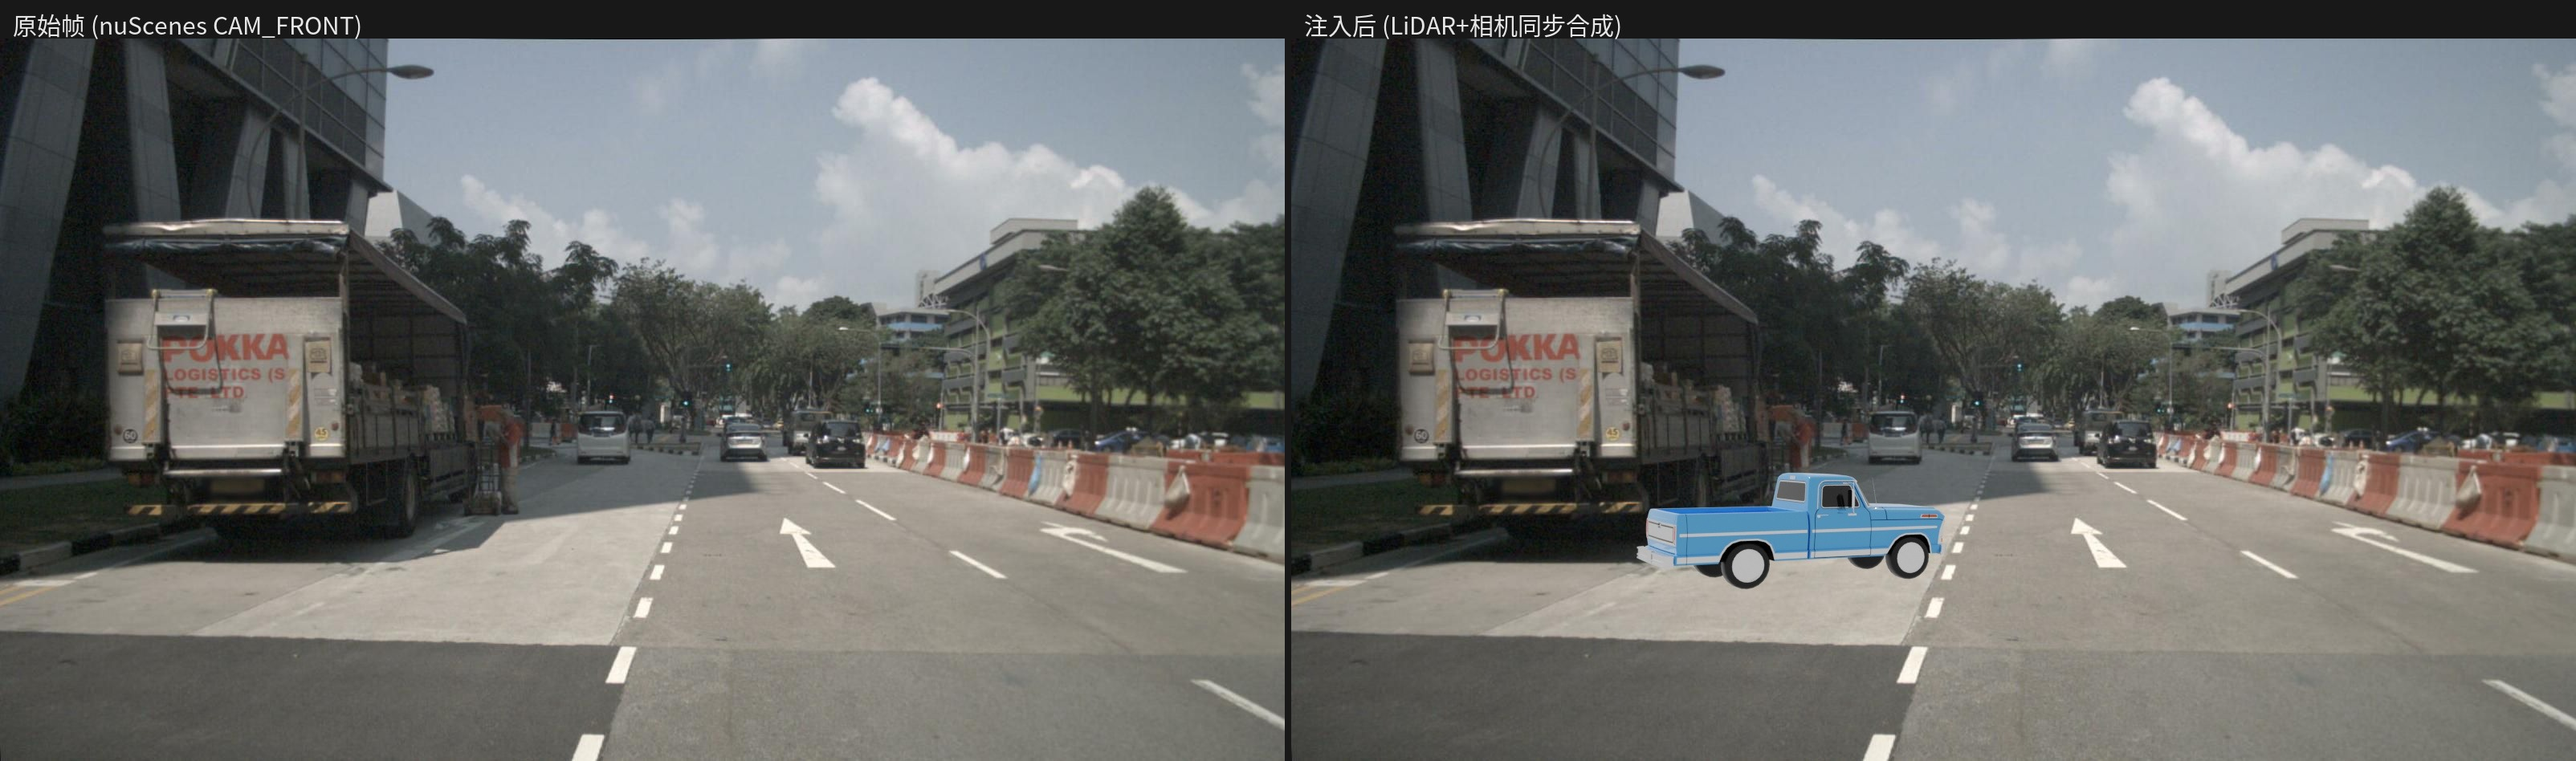
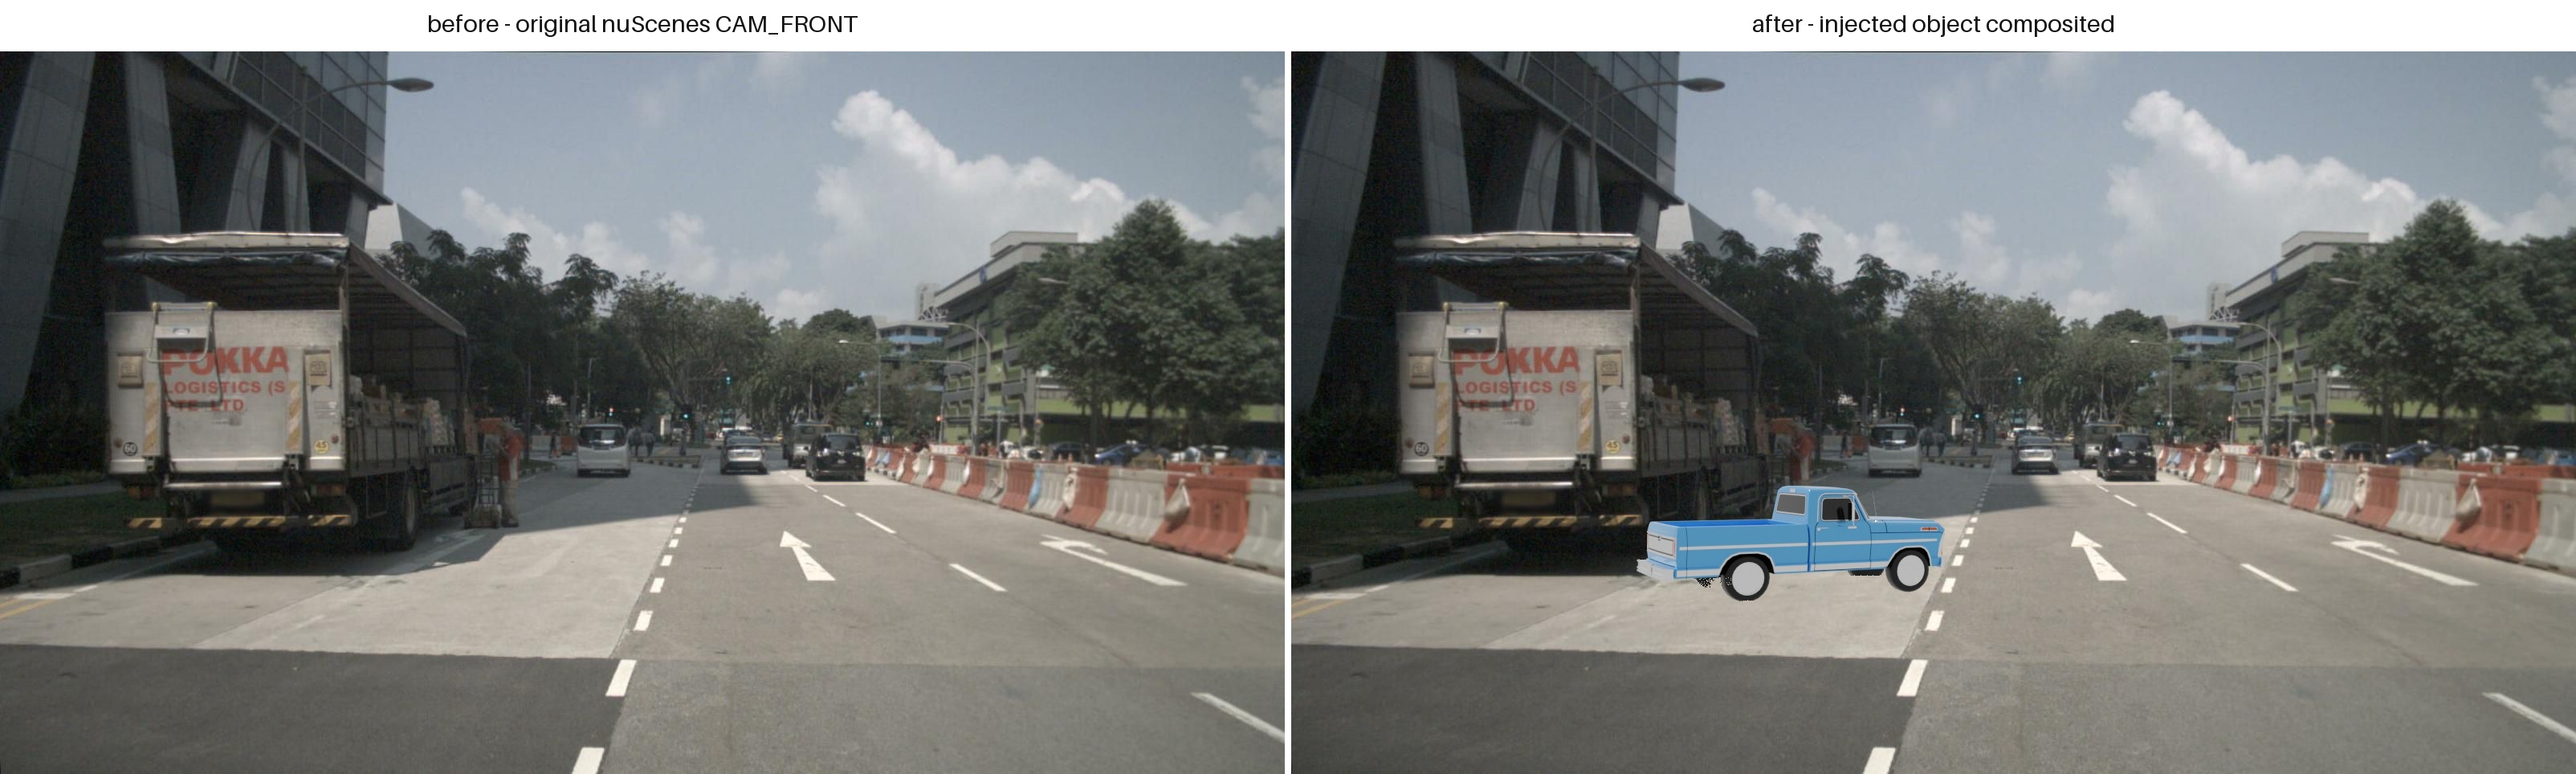
Docs: 用当前代码重出文档对比图
图 1-4 原本是 11 月 2 日的产物，早于 size 轴序、gap-fill、逐像素遮挡体深度等
修复——那一版遮挡实际失效（occluded 全为 0），图里的合成效果不代表当前行为。
此前只在正文加了「历史快照」警示，等于用说明遮掩问题。

改为脚本重出：新增 scripts/make_doc_figs.py，从真实运行目录生成 fig1-4（fig0 是
示意图不碰），兼容 P0 与 batch 两种产物布局。图 3 换成皮卡 + 护栏两个不同类目，
并用显式 ego 位姿替代随机放置，避免构图被真实车辆遮没或裁出画外。
文档同步换成实测数字并清掉全部 p0_final / p0_batch_v3 旧引用。

diff --git a/scripts/make_doc_figs.py b/scripts/make_doc_figs.py
@@ -1,0 +1,153 @@
+#!/usr/bin/env python
+"""Regenerate the documentation figures from real pipeline runs.
+
+The figures under ``docs/summary/figs`` are renders, not drawings, so they go
+stale whenever the compositing/occlusion code changes. This rebuilds them from
+two existing run directories instead of hand-editing images.
+
+    # a single-object run (any run dir works) and a two-object run
+    python scripts/make_doc_figs.py \
+        --single data/outputs/p0/cmpA_pedestrian_near \
+        --two    data/outputs/p0/fig_two
+
+fig0_pipeline.png is a diagram, not a render — it is left untouched.
+"""
+from __future__ import annotations
+
+import argparse
+import json
+from pathlib import Path
+
+import numpy as np
+from PIL import Image, ImageDraw, ImageFont
+
+ROOT = Path(__file__).resolve().parents[1]
+CONTENT_H = 900          # panel height
+LABEL_H = 64             # caption bar height
+GAP = 8
+CAM = "CAM_FRONT"
+
+
+def _font(size=30):
+    try:
+        return ImageFont.load_default(size=size)
+    except TypeError:                       # older Pillow
+        return ImageFont.load_default()
+
+
+def _load(path) -> Image.Image:
+    im = Image.open(path).convert("RGB")
+    w = int(im.width * CONTENT_H / im.height)
+    return im.resize((w, CONTENT_H), Image.LANCZOS)
+
+
+def _over_checkerboard(rgba_path) -> Image.Image:
+    im = Image.open(rgba_path).convert("RGBA")
+    w, h = int(im.width * CONTENT_H / im.height), CONTENT_H
+    im = im.resize((w, h), Image.LANCZOS)
+    cell = 24
+    yy, xx = np.mgrid[0:h, 0:w]
+    board = np.where(((yy // cell) + (xx // cell)) % 2 == 0, 205, 150)
+    bg = Image.fromarray(np.dstack([board] * 3).astype(np.uint8), "RGB")
+    bg.paste(im, (0, 0), im)
+    return bg
+
+
+def _label(im: Image.Image, text: str) -> Image.Image:
+    out = Image.new("RGB", (im.width, im.height + LABEL_H), (255, 255, 255))
+    out.paste(im, (0, LABEL_H))
+    d = ImageDraw.Draw(out)
+    f = _font()
+    bbox = d.textbbox((0, 0), text, font=f)
+    d.text(((im.width - (bbox[2] - bbox[0])) // 2,
+            (LABEL_H - (bbox[3] - bbox[1])) // 2 - bbox[1]), text,
+           fill=(20, 20, 20), font=f)
+    return out
+
+
+def _row(panels) -> Image.Image:
+    panels = [_label(im, t) for im, t in panels]
+    w = sum(p.width for p in panels) + GAP * (len(panels) - 1)
+    out = Image.new("RGB", (w, panels[0].height), (255, 255, 255))
+    x = 0
+    for p in panels:
+        out.paste(p, (x, 0))
+        x += p.width + GAP
+    return out
+
+
+def _frame_dir(run: Path) -> Path:
+    """Resolve the directory holding one frame's artifacts.
+
+    ``run_p0.py`` writes them straight into the run dir; ``run_batch.py`` nests
+    each frame under ``sample_XXXX`` (legacy) or ``<scene>/fNNN`` (tracking).
+    """
+    if (run / "composite" / f"{CAM}.jpg").exists():
+        return run
+    hits = sorted(run.rglob(f"composite/{CAM}.jpg"))
+    if not hits:
+        raise SystemExit(f"no composited frame under {run}")
+    return hits[0].parent.parent
+
+
+def _original_image(run: Path, dataset_root: Path):
+    """The unmodified camera frame a run composited onto."""
+    spec_path = run / "spec.json"
+    if not spec_path.exists():
+        return None
+    spec = json.load(open(spec_path))
+    rel = spec.get("cam_filenames", {}).get(CAM)
+    if not rel:
+        return None
+    p = dataset_root / rel
+    return p if p.exists() else None
+
+
+def main():
+    ap = argparse.ArgumentParser()
+    ap.add_argument("--single", required=True, help="a single-object run dir")
+    ap.add_argument("--two", required=True, help="a two-object run dir")
+    ap.add_argument("--dataset", default=str(ROOT / "data" / "nuscenes"))
+    ap.add_argument("--out", default=str(ROOT / "docs" / "summary" / "figs"))
+    args = ap.parse_args()
+
+    single, two = _frame_dir(Path(args.single)), _frame_dir(Path(args.two))
+    out = Path(args.out)
+    out.mkdir(parents=True, exist_ok=True)
+    dataset = Path(args.dataset)
+
+    # ---- fig1: before / after -------------------------------------------
+    orig = _original_image(single, dataset)
+    panels = []
+    if orig is not None:
+        panels.append((_load(orig), "before - original nuScenes CAM_FRONT"))
+    else:
+        print(f"WARN: original frame not found for {single}, fig1 will be single-panel")
+    panels.append((_load(single / "composite" / f"{CAM}.jpg"),
+                   "after - injected object composited"))
+    _row(panels).save(out / "fig1_before_after.jpg", quality=92)
+
+    # ---- fig2: overlay / BEV --------------------------------------------
+    panels = [(_load(single / "viz" / f"{CAM}_overlay.jpg"),
+               "LiDAR points (red) + silhouette (green) on the composite")]
+    bev = single / "viz" / "lidar_bev.png"
+    if bev.exists():
+        panels.append((_load(bev), "LiDAR BEV - target in red"))
+    _row(panels).save(out / "fig2_overlay_bev.jpg", quality=92)
+
+    # ---- fig3: two objects in one frame ---------------------------------
+    _load(two / "composite" / f"{CAM}.jpg").save(out / "fig3_batch_two_objects.jpg",
+                                                 quality=92)
+
+    # ---- fig4: Blender RGBA foreground ----------------------------------
+    _over_checkerboard(single / "blender" / f"{CAM}.png").save(
+        out / "fig4_blender_rgba.jpg", quality=92)
+
+    for name in ("fig1_before_after.jpg", "fig2_overlay_bev.jpg",
+                 "fig3_batch_two_objects.jpg", "fig4_blender_rgba.jpg"):
+        im = Image.open(out / name)
+        print(f"  {out / name}  {im.size}")
+
+
+if __name__ == "__main__":
+    main()

diff --git a/docs/summary/README.md b/docs/summary/README.md
@@ -38,39 +38,48 @@
 
 ## 3. 关键结果（图文）
 
-> **本节是历史快照**：图 1–4 与下列校验数值来自 `p0_final` / `p0_batch_v3` 两次早期运行，
-> 均**早于** `size` 轴序、gap-fill、逐像素遮挡体深度等修复。当时的遮挡实际上未生效
-> （遮挡体几何错位），因此图中的合成效果不代表当前行为。
-> **当前指标**见 §4 的导出状态表与 [`docs/measurements.md`](../measurements.md)（M8）。
+> 图 1–4 均由 `scripts/make_doc_figs.py` 从真实运行出图（`fig_temple` 单目标、
+> `fig_two_final` 双目标），不是手绘。改动合成/遮挡代码后重跑该脚本即可刷新。
+> 全量指标见 §4 与 [`docs/measurements.md`](../measurements.md)。
 
-### 3.1 单样本 P0 验收（run-id `p0_final`）
+### 3.1 单样本 P0 验收（run-id `fig_temple`）
 
 ![前后对比](figs/fig1_before_after.jpg)
 
-**图 1 · 注入前后对比**：左为原始 nuScenes CAM_FRONT，右为注入后——蓝色皮卡（temple.glb 模型）已合成进路面，几何位置与点云一致。
+**图 1 · 注入前后对比**：左为原始 nuScenes CAM_FRONT，右为注入后——蓝色皮卡（`temple.glb`）已合成进路面，几何位置与点云一致。
 
 ![点云叠加与 BEV](figs/fig2_overlay_bev.jpg)
 
-**图 2 · LiDAR 侧可视化**：左为注入点（红）+ 3D 框（绿）投影回图像，与合成区域重合；右为 BEV，红框即注入目标在自车前方位置。
+**图 2 · 跨模态一致性**：左为注入的 LiDAR 点（红）密铺在渲染轮廓（绿）内，两通道逐像素对齐；
+右为 BEV，红色即目标在自车前方。
 
 校验数值（`validation_report.json`）：
 
 | 校验项 | 实测 | 阈值 | 结果 |
 |---|---|---|---|
 | 坐标链往返残差 | 6.0e-14 | <1e-6 | ✅ |
-| `num_lidar_pts` | 2263 | >0 | ✅ |
+| `num_lidar_pts` | 4202 | >0 | ✅ |
 | Blender 内参自检 | 0.006 px | <2 px | ✅ |
-| 点投影 ⊂ α 覆盖率 | 0.987 | ≥0.85 | ✅ |
+| 点投影 ⊂ α 覆盖率 | 0.997 | ≥0.85 | ✅ |
 | 3D 框投影 IoU | 0.884 | ≥0.5（触边豁免） | ✅ |
+| 被遮挡像素 / 无理由遮挡 | 648（1.9%）/ **0** | 0 违例 | ✅ |
 
-### 3.2 批量注入（run-id `p0_batch_v3`）
+### 3.2 同帧多目标（run-id `fig_two_final`）
 
 ![批量双目标](figs/fig3_batch_two_objects.jpg)
 
-**图 3 · 同帧 2 目标批量注入**：多个模型随机放置，共用同一 range-image z-buffer——**目标之间互相遮挡**，单次 Blender job 渲染。
+**图 3 · 同帧 2 目标、不同类目**：蓝色皮卡（`vehicle.car`，`size=[3.00, 1.34, 1.12]`）
+与橙色护栏（`movable_object.barrier`，`size=[0.40, 2.20, 1.00]`）共用同一套 z-buffer
+与一次 Blender job，各自带独立类目落库。
 
-- 5 sample × 2 obj → **5/5 all_pass**，10 条新标注
-- 批量放置可复现：`np.random.default_rng([seed, sample_index])`
+| 校验项 | CAM_FRONT | CAM_FRONT_LEFT |
+|---|---|---|
+| 点投影 ⊂ α 覆盖率 | 0.998 | 1.000 |
+| 3D 框投影 IoU | 0.970 | 0.697（触边豁免） |
+| 被遮挡像素 / 无理由遮挡 | 2564 / **0** | 0 / **0** |
+| `num_lidar_pts` | 3591 | 5918 |
+
+批量放置可复现：`np.random.default_rng([seed, sample_index])`。
 
 ### 3.3 Blender 前景通道
 
@@ -160,7 +169,7 @@ pytest                                # 单测回归，无需数据与 Blender
 # 单样本回归
 python scripts/run_p0.py --config configs/p0.yaml --run-id my_run
 # 批量注入 + 落库 + 导出（仅 all_pass 进导出）
-python scripts/run_batch.py --config configs/batch.yaml --run-id p0_batch_v3
+python scripts/run_batch.py --config configs/batch.yaml --run-id my_batch
 # 只重导出（须用可信 specs.json）
 python scripts/run_batch.py --config configs/batch.yaml --export-only
 ```
@@ -170,8 +179,8 @@ python scripts/run_batch.py --config configs/batch.yaml --export-only
 ## 7. 已完成 vs 后续
 
 **已完成**
-- ✅ P0 单样本同步注入，五项校验全过（`p0_final`）
-- ✅ 批量多目标注入（互遮挡 + 确定性 seed），5/5 all_pass（`p0_batch_v3`）
+- ✅ P0 单样本同步注入，校验全过（`fig_temple`）
+- ✅ 同帧多目标、多类目注入（共享 z-buffer + 确定性 seed，`fig_two_final`）
 - ✅ 跨帧轨迹注入 10 scene，devkit 加载与渲染通过
 - ✅ 标准 nuScenes 数据集导出 + token 确定性 + md5 对账
 - ✅ **修复 `sample_annotation.size` 轴序**（nuScenes `[w,l,h]` vs 模型框 `x,y,z`）：

diff --git a/nuScenes点云图像同步注入方法.md b/nuScenes点云图像同步注入方法.md
@@ -214,9 +214,9 @@ T_model2global = T_ego2global · T_lidar2ego · T_model2lidar
 
 | 阶段 | 内容 | 状态 |
 |---|---|---|
-| P0 | 单样本最小闭环（Step 1+2+3+4+6），验证"点云投影落点 ⊂ 图像渲染目标区域" | ✅ `p0_final` 五项全过 |
+| P0 | 单样本最小闭环（Step 1+2+3+4+6），验证"点云投影落点 ⊂ 图像渲染目标区域" | ✅ `fig_temple` 全过 |
 | P1 | 单模态各自跑通（LiDAR 注入 / Blender 渲染独立可复现） | ✅ |
-| P2 | 联合 + 真值落库（Step 5）+ 批量多目标 | ✅ `p0_batch_v3`，5 sample × 2 obj → 5/5 all_pass |
+| P2 | 联合 + 真值落库（Step 5）+ 批量多目标 | ✅ `fig_two_final`，同帧 2 目标、不同类目 |
 | P3 | 跨帧轨迹 + 规模化 + 数据集导出 | ✅（mini 版）10 scene / 87 帧 / 20 track / 94 标注，devkit verify 通过；**trainval 150 scene 待跑** |
 
 ### 5.2 单样本验收（`validation_report.json`）
@@ -233,7 +233,7 @@ T_model2global = T_ego2global · T_lidar2ego · T_model2lidar
 
 ![批量双目标注入](docs/summary/figs/fig3_batch_two_objects.jpg)
 
-**图 3 · 同帧 2 目标批量注入（`p0_batch_v3`）**：多个模型按 `seed` 确定性随机放置（`np.random.default_rng([seed, sample_index])`），共用同一 range-image z-buffer——**目标之间互相遮挡**，单次 Blender job 渲染。
+**图 3 · 同帧 2 目标、不同类目（`fig_two_final`）**：皮卡（`vehicle.car`）与护栏（`movable_object.barrier`）共用同一套 range-image z-buffer 与一次 Blender job，各自带独立类目落库；批量放置按 `seed` 确定性可复现。
 
 - 批量（legacy 模式）：5 sample × 2 obj → **5/5 all_pass**，10 条新标注。
 - 轨迹（tracking 模式）：10 scene / 87 帧 / 20 track（时长 3–8 帧）/ **94 条新 annotation**（总 18632 = 18538 + 94），结束原因 `window_end=14 / no_camera=6`。
@@ -297,7 +297,7 @@ conda activate nusc-inject
 # 单样本回归（P0）
 python scripts/run_p0.py --config configs/p0.yaml --run-id my_run
 # 批量注入 + 落库 + 导出（仅 all_pass 进导出；tracking 由 batch.yaml 控制）
-python scripts/run_batch.py --config configs/batch.yaml --run-id p0_batch_v3
+python scripts/run_batch.py --config configs/batch.yaml --run-id my_batch
 # 只重导出（须用可信 specs.json）
 python scripts/run_batch.py --config configs/batch.yaml --export-only
 ```
